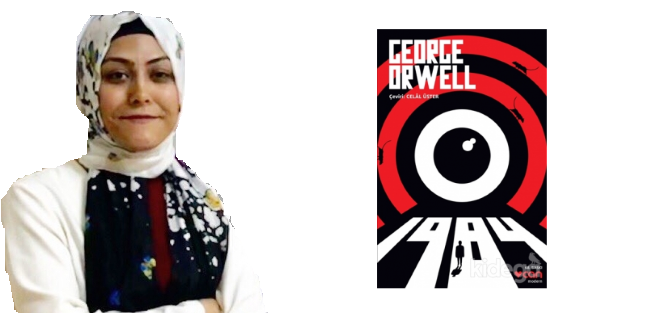
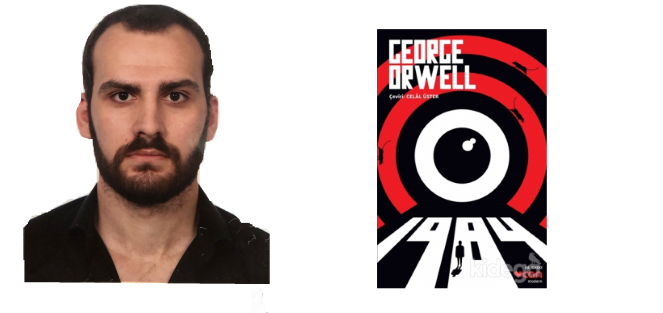
add new advice pictures and home screen design

Changed region(s): [[0.0, 0.0, 0.4223, 1.0]]

diff --git a/lib/screens/home/home.dart b/lib/screens/home/home.dart
@@ -70,33 +70,102 @@ class _HomeState extends State<Home> {
     );
     Widget spaceBox = Container(
       alignment: Alignment.center,
-      height: 90,
+      height: 40,
     );
-    Widget tumunuGor = Align(
-      alignment: Alignment.centerRight,
-      child: SizedBox(
-        width: 110.0,
-        height: 30.0,
-        child: Card(
-          elevation: 10.0,
-          color: Colors.blue,
-          child: Row(
-            children: <Widget>[
-              Text(
-                'Tümünü Gör',
-                style: TextStyle(color: Colors.white, fontSize: 14.0),
-                textAlign: TextAlign.center,
+    Widget row1 = Row(
+      children: <Widget>[
+        Padding(
+          padding: const EdgeInsets.only(right: 15.0, top: 5.0, bottom: 10.0),
+          child: Text('Hocalarımızdan Tavsiyeler',
+              style: TextStyle(
+                color: Colors.black,
+                fontSize: 24.0,
+                fontWeight: FontWeight.bold,
               ),
-              Icon(
-                Icons.arrow_forward,
-                color: Colors.white,
-                size: 20.0,
+              textAlign: TextAlign.left),
+        ),
+        Align(
+          alignment: Alignment.centerRight,
+          child: SizedBox(
+            width: 110.0,
+            height: 30.0,
+            child: Card(
+              color: Colors.blue,
+              child: Row(
+                children: <Widget>[
+                  Text(
+                    'Tümünü Gör',
+                    style: TextStyle(color: Colors.white, fontSize: 14.0),
+                    textAlign: TextAlign.right,
+                  ),
+                  Icon(
+                    Icons.arrow_forward,
+                    color: Colors.white,
+                    size: 20.0,
+                  ),
+                ],
               ),
-            ],
+            ),
           ),
+        ),
+      ],
+    );
+    Widget goodSentences = Align(
+      child: Padding(
+        padding: const EdgeInsets.only(top: 40.0, bottom: 40.0),
+        child: Text(
+          '"En büyük mutluluk, mutsuzluğun kaynağını bilmektir."',
+          style: TextStyle(
+              color: Colors.black, fontSize: 17.0, fontStyle: FontStyle.italic),
         ),
       ),
     );
+    Widget row2 = Row(
+      children: <Widget>[
+        Padding(
+          padding: const EdgeInsets.only(left: 8.0),
+          child: Align(
+            alignment: Alignment.topLeft,
+            child: SizedBox(
+              width: 292.0,
+              height: 30.0,
+              child: Text('Ayın Seçkin Kitapları',
+                  style: TextStyle(
+                    color: Colors.black,
+                    fontSize: 24.0,
+                    fontWeight: FontWeight.bold,
+                  ),
+                  textAlign: TextAlign.left),
+            ),
+          ),
+        ),
+        Align(
+          alignment: Alignment.centerRight,
+          child: SizedBox(
+            width: 110.0,
+            height: 30.0,
+            child: Card(
+              color: Colors.blue,
+              child: Row(
+                children: <Widget>[
+                  Text(
+                    'Tümünü Gör',
+                    style: TextStyle(color: Colors.white, fontSize: 14.0),
+                    textAlign: TextAlign.right,
+                  ),
+                  Icon(
+                    Icons.arrow_forward,
+                    color: Colors.white,
+                    size: 20.0,
+                  ),
+                ],
+              ),
+            ),
+          ),
+        ),
+      ],
+    );
+
     Widget bookSlider = CarouselSlider(
       height: 150.0,
       enlargeCenterPage: true,
@@ -154,7 +223,7 @@ class _HomeState extends State<Home> {
       ),
       body: Column(
         mainAxisAlignment: MainAxisAlignment.spaceEvenly,
-        children: [teacherofAdvice, spaceBox, tumunuGor, bookSlider],
+        children: [row1, teacherofAdvice, goodSentences, row2, bookSlider],
       ),
       bottomNavigationBar: BottomNavigationBar(
         currentIndex: _currentIndex,
